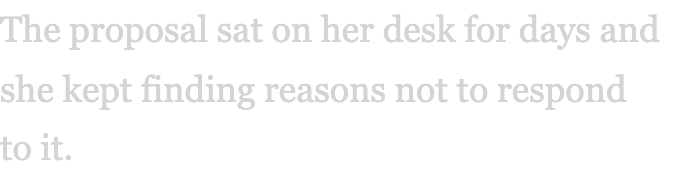
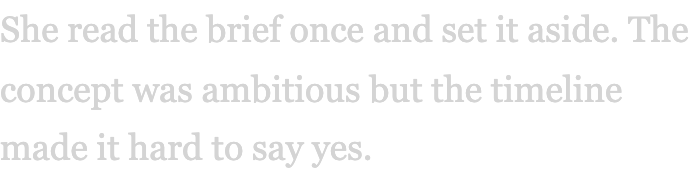
New sentence-end example + description rewrite
Old example ('respond to it.') had 'to it.' as a tiny last line even
after typeset — technically correct but visually poor. New example:
'She read the brief once and set it aside. The concept was ambitious
but the timeline made it hard to say yes.'

Both before (dangling 'yes.') and after ('say yes.' bound) break
cleanly at 345px. Description also rewritten with smart quotes.

diff --git a/src/app/rules-data.tsx b/src/app/rules-data.tsx
@@ -30,7 +30,7 @@ export const rules: Rule[] = [
     name: "Sentence-End Protection",
     id: "sentence-end",
     description:
-      "Short words like \"it\" \"to\" and \"so\" shouldn't dangle at the end of a sentence on their own line. They get pulled back to the previous line.",
+      "Short closing words like \u201Cit,\u201D \u201Cto,\u201D and \u201Cso\u201D shouldn\u2019t sit alone at the end of a sentence. Typeset pulls them back to the line\u00A0before.",
     code: `export function protectSentenceEnd(text: string): string {
   return text.replace(/\\s+(\\w{1,3})([.!?])/g, "\\u00A0$1$2");
 }`,
